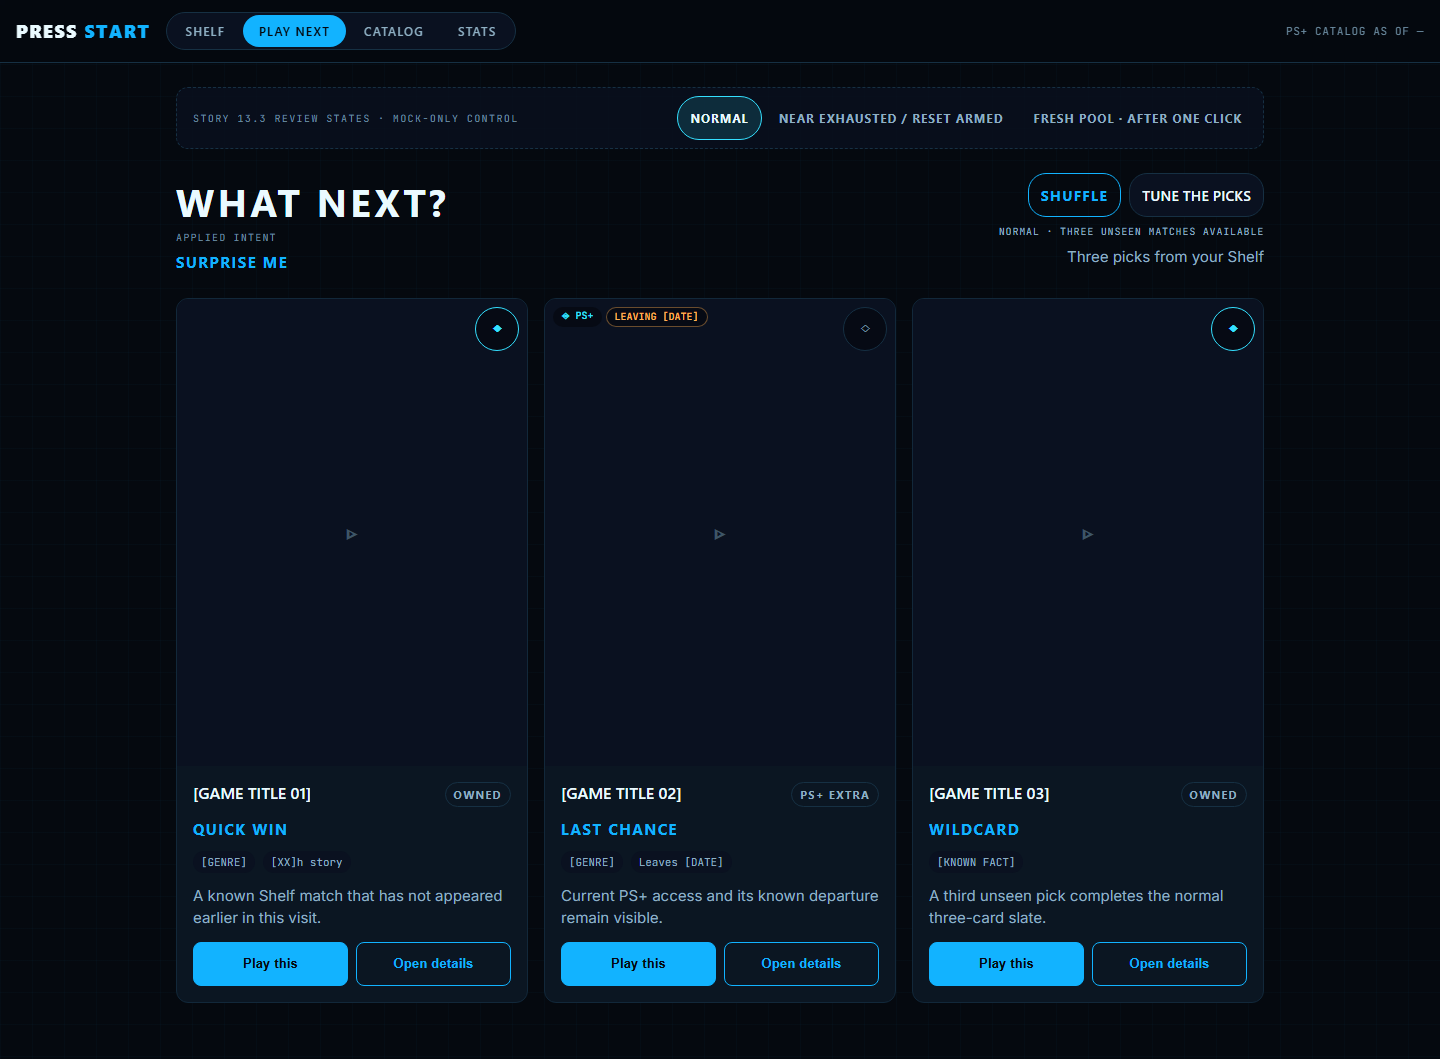
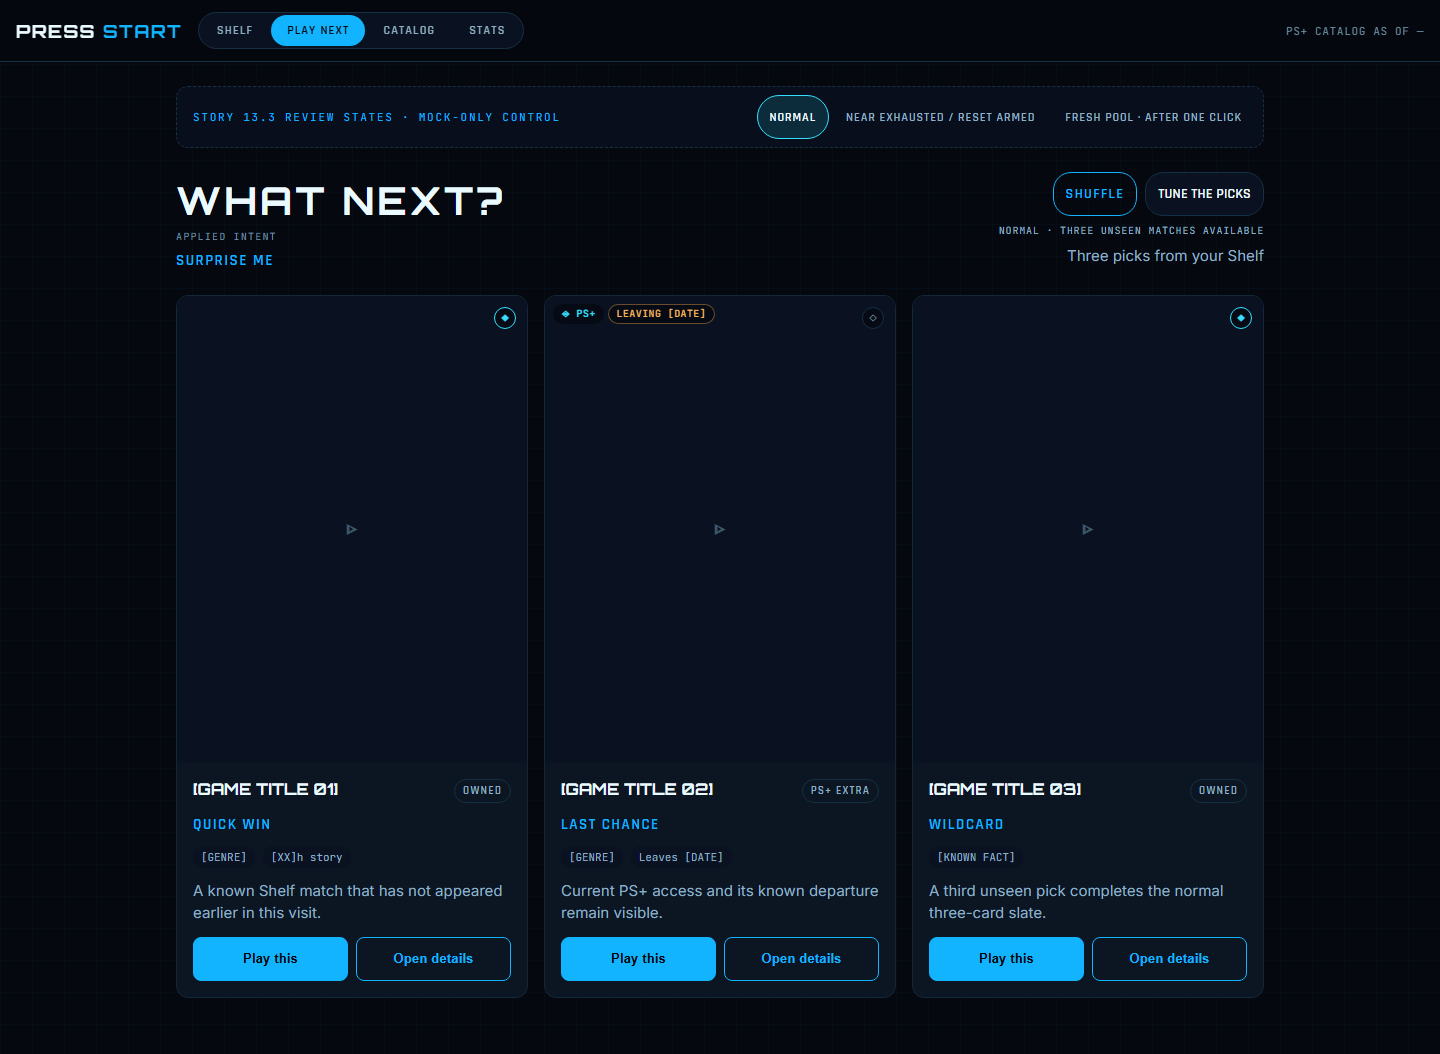
docs(design): approve story 13.3 shuffle mock

diff --git a/_bmad-output/design-demos/epic-13-play-next/06-story-13-3-shuffle-states.html b/_bmad-output/design-demos/epic-13-play-next/06-story-13-3-shuffle-states.html
@@ -12,10 +12,15 @@ ASSUMPTIONS / ITERATION SOURCE
 - State switcher is mock-only review chrome, never production UI.
 - Near-exhausted IS reset-ready. One next Shuffle immediately produces a fresh slate
   while excluding the two cards currently visible. There is no intermediate click.
+Alignment pass 2026-08-03: values re-copied from the shipped app + binding 05 mock —
+web/tokens.css (tokens, glow-ring), web/index.css (focus floor), web/shell/header.css,
+web/shelf/card.css via 05 (22px owned badge, rounded cover, flag offsets),
+web/play-next/play-next.css (page header, card content, tune modal). Font paths fixed:
+static @fontsource Orbitron/Rajdhani (the variable packages are not installed).
 -->
 <style>
-@font-face{font-family:Orbitron;src:url('../../../node_modules/@fontsource-variable/orbitron/files/orbitron-latin-wght-normal.woff2')}
-@font-face{font-family:Rajdhani;src:url('../../../node_modules/@fontsource-variable/rajdhani/files/rajdhani-latin-wght-normal.woff2')}
+@font-face{font-family:Orbitron;src:url('../../../node_modules/@fontsource/orbitron/files/orbitron-latin-700-normal.woff2')}
+@font-face{font-family:Rajdhani;src:url('../../../node_modules/@fontsource/rajdhani/files/rajdhani-latin-600-normal.woff2')}
 @font-face{font-family:Inter;src:url('../../../node_modules/@fontsource-variable/inter/files/inter-latin-wght-normal.woff2')}
 @font-face{font-family:JetBrains;src:url('../../../node_modules/@fontsource-variable/jetbrains-mono/files/jetbrains-mono-latin-wght-normal.woff2')}
 :root{
@@ -28,8 +33,10 @@ ASSUMPTIONS / ITERATION SOURCE
 	--radius-sm:8px;--radius-md:12px;--radius-lg:18px;--radius-pill:999px;
 	--font-display:"Orbitron",system-ui,sans-serif;--font-ui:"Rajdhani",system-ui,sans-serif;
 	--font-body:"Inter",system-ui,sans-serif;--font-mono:"JetBrains",ui-monospace,monospace;
+	--glow-ring:0 0 28px rgba(53,224,255,.18);
 	--hit-target:44px;--z-header:10;--z-overlay:40;
 }
+:focus-visible{outline:2px solid var(--color-accent-electric);outline-offset:2px}
 *{box-sizing:border-box}
 body{margin:0;min-height:100vh;background:var(--color-void);color:var(--color-text-primary);font:15px/1.5 var(--font-body);background-image:linear-gradient(rgba(18,179,255,.025) 1px,transparent 1px),linear-gradient(90deg,rgba(18,179,255,.025) 1px,transparent 1px);background-size:32px 32px}
 button{cursor:pointer}
@@ -41,7 +48,7 @@ button{cursor:pointer}
 .app-header__readout{margin-left:auto;color:var(--color-text-muted);font:11px var(--font-mono);letter-spacing:.06em}
 main{max-width:1120px;margin:auto;padding:var(--space-5) var(--space-4) 56px}
 .mock-bar{display:flex;align-items:center;justify-content:space-between;gap:var(--space-3);margin:0 0 var(--space-5);padding:var(--space-2);border:1px dashed var(--color-border-hairline);border-radius:var(--radius-md);background:rgba(10,17,32,.72)}
-.mock-bar__label{margin:0 var(--space-2);color:var(--color-text-muted);font:10px var(--font-mono);letter-spacing:.14em}
+.mock-bar__label{margin:0 var(--space-2);color:var(--color-accent-electric);font:11px var(--font-mono);letter-spacing:.16em}
 .mock-bar__states{display:flex;flex-wrap:wrap;gap:var(--space-1)}
 .mock-state{min-height:var(--hit-target);padding:var(--space-2) var(--space-3);border:1px solid transparent;border-radius:var(--radius-pill);background:transparent;color:var(--color-text-secondary);font:700 12px var(--font-ui);letter-spacing:.08em}
 .mock-state[aria-pressed="true"]{border-color:var(--color-accent-glow);background:rgba(53,224,255,.14);color:var(--color-text-primary)}
@@ -54,16 +61,16 @@ main{max-width:1120px;margin:auto;padding:var(--space-5) var(--space-4) 56px}
 .command-row{display:flex;justify-content:flex-end;gap:var(--space-2)}
 .tune-trigger{display:inline-flex;align-items:center;gap:var(--space-2);min-height:var(--hit-target);padding:var(--space-2) var(--space-3);border:1px solid var(--color-border-hairline);border-radius:var(--radius-lg);background:var(--color-surface-raised);color:var(--color-text-primary);font:600 .9rem var(--font-ui)}
 .play-next__grid{display:grid;grid-template-columns:repeat(3,minmax(0,1fr));gap:var(--space-4)}
-.card{display:flex;flex-direction:column;min-width:0;overflow:hidden;background:var(--color-surface);border:1px solid var(--color-border-soft);border-radius:var(--radius-md)}
+.card{display:flex;flex-direction:column;min-width:0;background:var(--color-surface);border:1px solid var(--color-border-soft);border-radius:var(--radius-md)}
 .card[hidden]{display:none}
-.card__cover{position:relative;aspect-ratio:3/4;background:var(--color-surface-raised)}
+.card__cover{position:relative;aspect-ratio:3/4;background:var(--color-surface-raised);border-radius:calc(var(--radius-md) - 1px) calc(var(--radius-md) - 1px) 0 0;overflow:hidden}
 .card__cover-button{display:block;width:100%;height:100%;padding:0;border:0;background:none}
 .card__cover-fallback{display:grid;place-items:center;width:100%;height:100%;color:var(--color-state-dormant);font:700 2rem var(--font-display)}
-.card__owned-toggle{position:absolute;top:var(--space-2);right:var(--space-2);z-index:1;display:grid;place-items:center;width:var(--hit-target);height:var(--hit-target);padding:0;border:1px solid var(--color-border-hairline);border-radius:var(--radius-pill);background:rgba(5,9,15,.72);color:var(--color-text-muted)}
+.card__owned-toggle{position:absolute;top:calc((var(--hit-target) - 22px)/2);right:calc((var(--hit-target) - 22px)/2);z-index:1;display:grid;place-items:center;width:22px;height:22px;padding:0;line-height:1;border:1px solid var(--color-border-hairline);border-radius:var(--radius-pill);background:rgba(5,9,15,.72);color:var(--color-text-muted);font-size:11px;backdrop-filter:blur(2px)}
 .card__owned-toggle[aria-pressed="true"]{border-color:var(--color-accent-glow);color:var(--color-accent-glow)}
-.card__flags{position:absolute;top:var(--space-2);left:var(--space-2);right:calc(var(--hit-target) + var(--space-3));display:flex;flex-wrap:wrap;gap:var(--space-1);pointer-events:none}
-.card__flag{display:inline-flex;padding:2px var(--space-2);border-radius:var(--radius-pill);background:rgba(5,9,15,.72);color:var(--color-text-primary);font:10px/1.4 var(--font-mono)}
-.card__flag--ps-extra{color:var(--color-accent-glow);font-weight:600}.card__flag--leaving{flex-basis:100%;max-width:max-content;border:1px solid rgba(255,178,84,.4);color:var(--color-warn-amber);font-weight:600}
+.card__flags{position:absolute;top:var(--space-2);left:var(--space-2);right:calc((var(--hit-target) - 22px)/2 + 22px + var(--space-1));display:flex;flex-wrap:wrap;gap:var(--space-1);pointer-events:none}
+.card__flag{display:inline-flex;align-items:center;padding:2px var(--space-2);border-radius:var(--radius-pill);background:rgba(5,9,15,.72);color:var(--color-text-primary);font:10px/1.4 var(--font-mono);backdrop-filter:blur(2px)}
+.card__flag--ps-extra{color:var(--color-accent-glow);font-weight:600;letter-spacing:.04em}.card__flag--leaving{flex-basis:100%;max-width:fit-content;border:1px solid rgba(255,178,84,.4);color:var(--color-warn-amber);font-weight:600;letter-spacing:.04em}
 .card__content{display:flex;flex:1;flex-direction:column;gap:var(--space-3);padding:var(--space-4)}
 .card__title-row{display:flex;align-items:flex-start;justify-content:space-between;gap:var(--space-3)}
 .card__title-row h2{min-width:0;margin:0;overflow:hidden;font:600 1rem var(--font-display);text-overflow:ellipsis;white-space:nowrap}
@@ -78,8 +85,8 @@ main{max-width:1120px;margin:auto;padding:var(--space-5) var(--space-4) 56px}
 .shuffle-button:hover,.shuffle-button:focus-visible{background:rgba(18,179,255,.12)}
 .state-caption{margin:0;color:var(--color-text-muted);font:10px var(--font-mono);letter-spacing:.08em;text-align:right}
 .tune__backdrop{position:fixed;inset:0;z-index:var(--z-overlay);display:flex;align-items:center;justify-content:center;padding:var(--space-5);background:rgba(5,9,15,.7)}.tune__backdrop[hidden]{display:none}
-.tune{width:min(680px,100%);max-height:80vh;overflow:auto;padding:var(--space-4);border:1px solid var(--color-border-hairline);border-radius:var(--radius-lg);background:var(--color-surface-raised);box-shadow:0 0 28px rgba(53,224,255,.18)}
-.tune__head{display:flex;align-items:flex-start;justify-content:space-between;gap:var(--space-4)}.tune__title{margin:0 0 var(--space-3);font:600 .9rem var(--font-display);letter-spacing:.08em;text-transform:uppercase}.tune__close{display:grid;place-items:center;width:var(--hit-target);height:var(--hit-target);padding:0;border:1px solid var(--color-border-hairline);border-radius:var(--radius-pill);background:transparent;color:var(--color-text-primary);font-size:20px}
+.tune{width:min(680px,100%);max-height:80vh;overflow-y:auto;padding:var(--space-4);border:1px solid var(--color-border-hairline);border-radius:var(--radius-lg);background:var(--color-surface-raised);box-shadow:var(--glow-ring)}
+.tune__head{display:flex;align-items:flex-start;justify-content:space-between;gap:var(--space-4)}.tune__title{margin:0 0 var(--space-3);font:600 .9rem var(--font-display);letter-spacing:.08em;text-transform:uppercase}.tune__close{display:grid;place-items:center;width:var(--hit-target);height:var(--hit-target);padding:0;border:1px solid var(--color-border-hairline);border-radius:var(--radius-pill);background:transparent;color:var(--color-text-primary);font:20px/1 var(--font-ui)}
 .tune__draft{margin:0 0 var(--space-4);padding:var(--space-2) var(--space-3);border-left:2px solid var(--color-warn-amber);background:rgba(255,178,84,.06);color:var(--color-text-secondary);font-size:13px}.tune__draft strong{color:var(--color-warn-amber)}
 .tune__groups{display:grid;grid-template-columns:1fr 1fr;gap:0 var(--space-4)}.tune__group{display:flex;flex-wrap:wrap;gap:var(--space-2);min-inline-size:0;margin:0 0 var(--space-4);padding:0;border:0}.tune__group legend{margin-bottom:var(--space-1);padding:0;color:var(--color-text-secondary);font:.8rem var(--font-ui)}
 .tune__option{min-height:var(--hit-target);padding:var(--space-2) var(--space-3);border:1px solid var(--color-border-hairline);border-radius:var(--radius-pill);background:none;color:var(--color-text-primary);font:.9rem var(--font-ui)}.tune__option[aria-pressed="true"]{border-color:var(--color-accent-glow);background:rgba(53,224,255,.18)}

diff --git a/_bmad-output/implementation-artifacts/spec-13-3-shuffle-without-repetition.md b/_bmad-output/implementation-artifacts/spec-13-3-shuffle-without-repetition.md
@@ -2,7 +2,7 @@
 title: 'Story 13.3: Shuffle without repetition'
 type: 'feature'
 created: '2026-08-02'
-status: 'blocked'
+status: 'ready-for-dev'
 baseline_revision: '2887719'
 review_loop_iteration: 0
 followup_review_recommended: true
@@ -54,7 +54,7 @@ warnings: [oversized]
 
 **Execution:**
 - [ ] `src/core/play-next.ts`, `src/core/play-next.test.ts` -- add and hazard-test pure exclusion before UI work.
-- [ ] `_bmad-output/design-demos/epic-13-play-next/06-story-13-3-shuffle-states.html` -- present normal, exhausted, and reset-ready states and record Luca approval.
+- [x] `_bmad-output/design-demos/epic-13-play-next/06-story-13-3-shuffle-states.html` -- present normal, exhausted, and reset-ready states and record Luca approval.
 - [ ] `web/play-next/PlayNextPage.tsx`, `web/play-next/play-next.css` -- implement approved visit state machine and responsive Shuffle surface.
 - [ ] `web/play-next/PlayNextPage.test.tsx` -- pin every state transition, repeated announcement, focus, preservation, and reset.
 - [ ] `playwright/e2e/epic13-play-next.spec.ts`, `playwright/COVERAGE.md` -- prove every visible criterion on real D1.
@@ -83,6 +83,8 @@ Exclusions are an optional core selection input and affect eligibility only afte
 
 Shuffle is a native button immediately left of `TUNE THE PICKS` in the top command row. Exhaustion warning is programmatic status text directly beneath that row and before the suggestion grid. On phone both commands share the full-width row with 44px targets. Motion changes use existing CSS transitions only and are disabled under `prefers-reduced-motion: reduce`.
 
+Placement mock: `_bmad-output/design-demos/epic-13-play-next/06-story-13-3-shuffle-states.html`. Luca made final app-alignment edits and approved the resulting mock on 2026-08-03. Approval phrase `but not ... is approved` is recorded as a typo for `but now ... is approved`; the final edited file is binding for implementation.
+
 ## Verification
 
 **Commands:**
@@ -93,8 +95,8 @@ Shuffle is a native button immediately left of `TUNE THE PICKS` in the top comma
 
 ## Auto Run Result
 
-Status: blocked
+Status: resumed
 
-Blocking condition: UI-MOCK-GATE — awaiting Luca's explicit approval of `_bmad-output/design-demos/epic-13-play-next/06-story-13-3-shuffle-states.html` before production UI or core implementation.
+UI-MOCK-GATE: approved by Luca on 2026-08-03 after Luca's final alignment edits. Production implementation may proceed.
 
 Prepared: ready-for-development Story 13.3 spec plus app-aligned interactive mock covering normal, near-exhausted/reset-armed, and fresh-pool-after-one-click states at desktop and 320px phone. Production code remains untouched.

diff --git a/_bmad-output/design-demos/epic-13-play-next/direction-approved.md b/_bmad-output/design-demos/epic-13-play-next/direction-approved.md
@@ -126,3 +126,14 @@ Applied interpretation:
 - Phone keeps both commands together in one full-width, two-button row.
 
 Status: pending Luca's explicit approval of revised Story 13.3 placement.
+
+## Story 13.3 final mock approval — verbatim
+
+> I've made some small changes, but not Story 13.3 — Shuffle states is approved
+
+Recorded interpretation: `but not` is a typo for `but now`; Luca's small
+app-alignment edits are binding and the resulting Story 13.3 mock is approved.
+
+Status: approved by Luca on 2026-08-03 for Story 13.3 UI implementation.
+`06-story-13-3-shuffle-states.html`, including Luca's final alignment edits,
+is the binding placement and interaction reference.
